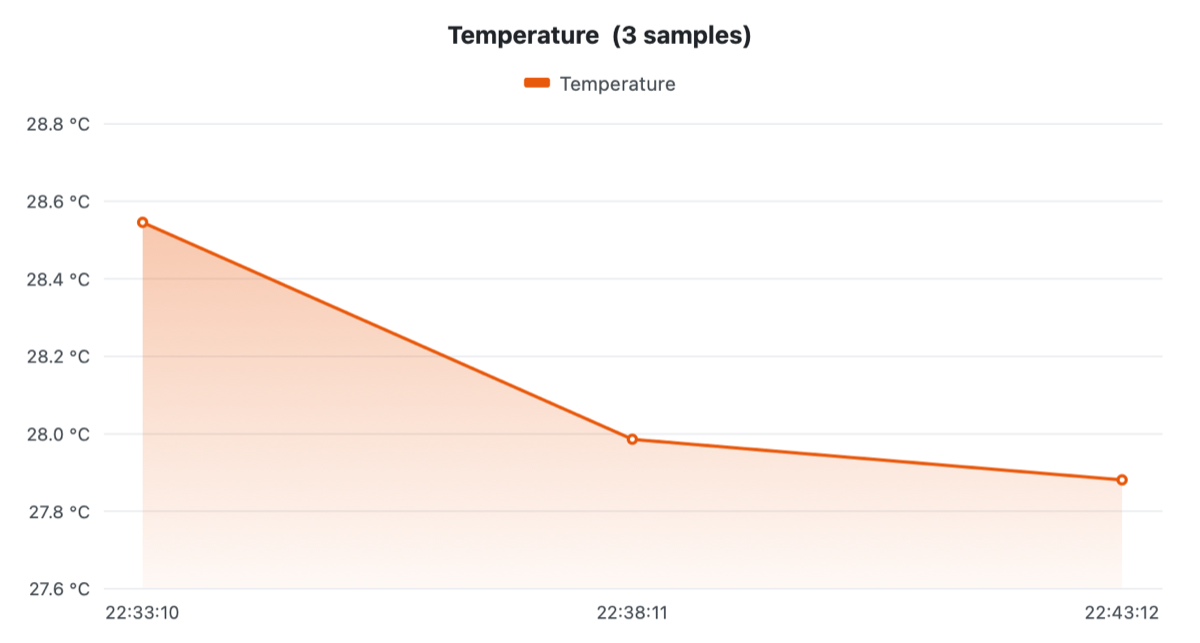
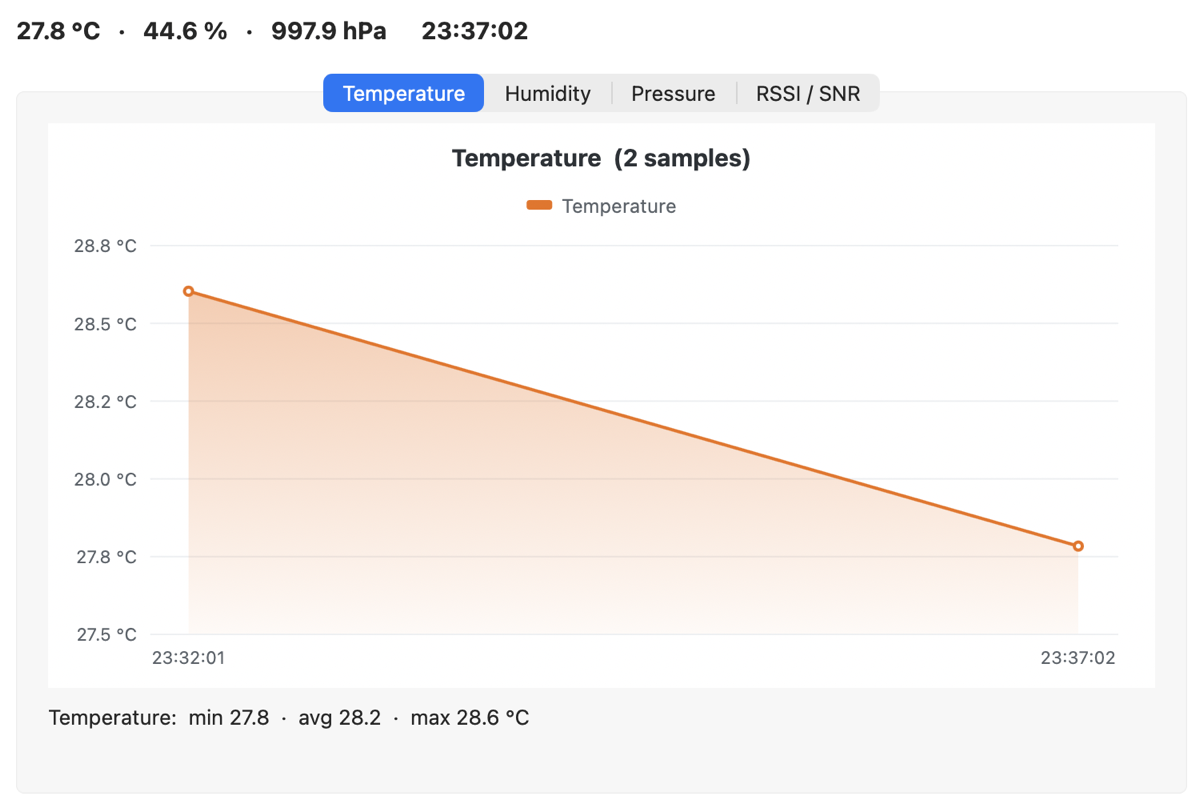
README: real screenshots of the MQTT window
Replaces the exported chart images; cropped below the title bar.

diff --git a/README.md b/README.md
@@ -21,7 +21,7 @@ A Meshtastic node's own BME680, followed over USB. At the top, the latest values
   <img src="docs/screenshots/device-pressure.png" alt="Pressure chart" width="49%">
 </p>
 
-The same node followed over MQTT, through the broker its gateway uploads to, one reading every 5 minutes. These are the chart images Export Data writes:
+The same node followed over MQTT, through the broker its gateway uploads to, with a reading every 5 minutes:
 
 ![Temperature chart of an MQTT feed](docs/screenshots/mqtt-temperature.png)
 
